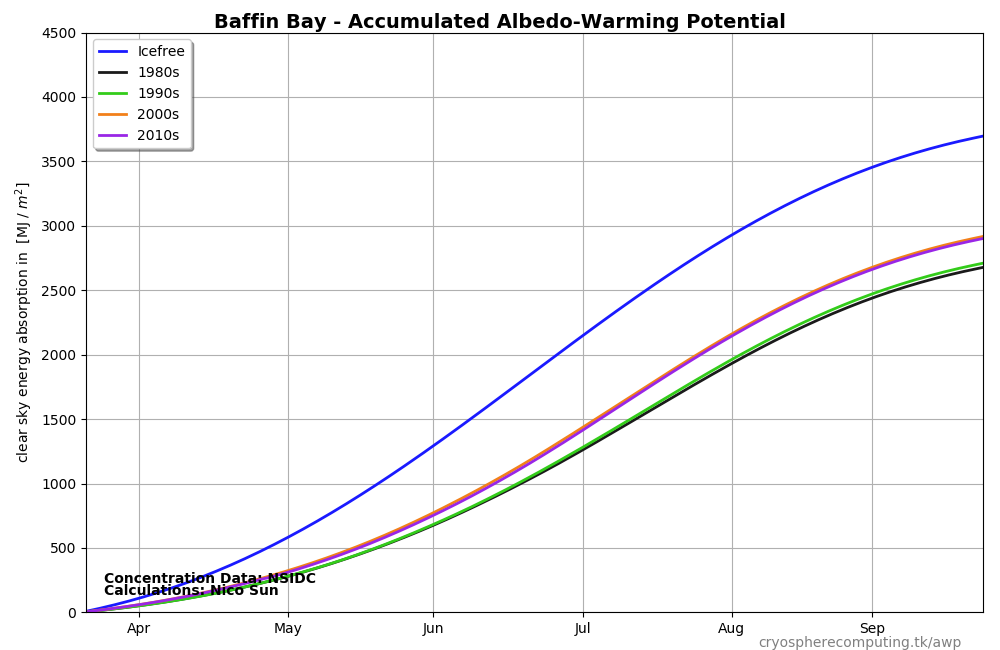
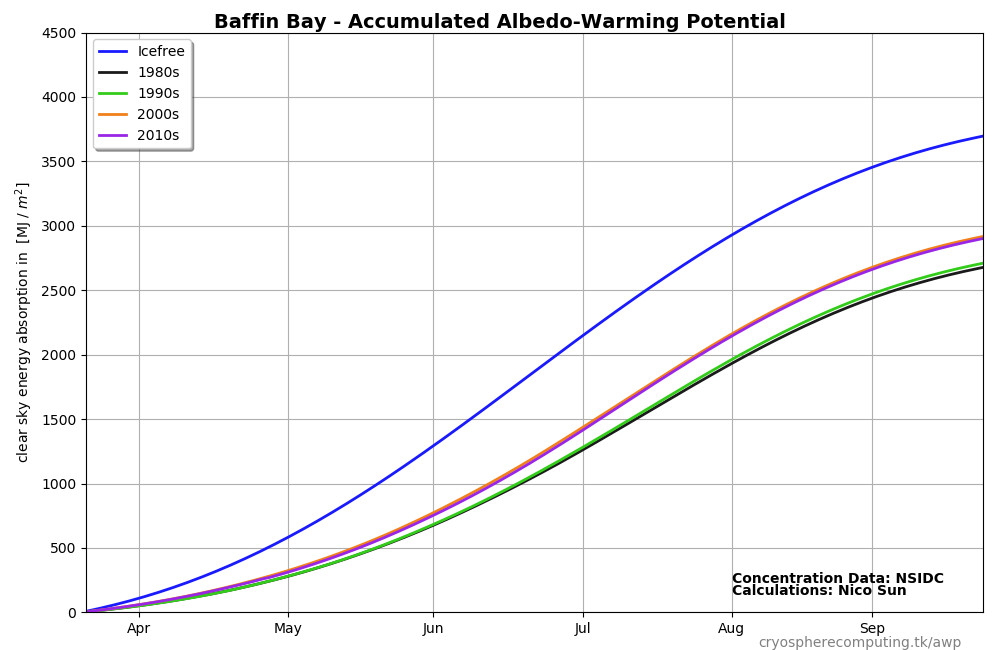
updated regional AWP
added Antarctica & graph design improvements

Changed region(s): [[0.093, 0.8615, 0.31, 0.9231], [0.713, 0.8615, 0.93, 0.9231]]

diff --git a/awp-south-region.html b/awp-south-region.html
@@ -88,18 +88,27 @@ body {font-family: "Lato", sans-serif}
     <!-- Sea Ice Area -->
   <div class="w3-container w3-content w3-center w3-padding-5" style="max-width:1900px" id="SIA">
     <h2 class="w3-wide">Antarctic</h2>
-    <p class="ex">coming soon</p>
     <div class="w3-row w3-padding-12">
       <div class="w3-half">
-
-
-
+        <img src="AWP_regional/South_Daily_AWP_Weddel Sea.png" class="w3-round" style="width:100%">
+        <img src="AWP_regional/South_Daily_AWP_Indian Ocean.png" class="w3-round" style="width:100%">
+        <img src="AWP_regional/South_Daily_AWP_Pacific Ocean.png" class="w3-round" style="width:100%">
+        <img src="AWP_regional/South_Daily_AWP_Ross Sea.png" class="w3-round" style="width:100%">
+        <img src="AWP_regional/South_Daily_AWP_Bell-Amun Sea.png" class="w3-round" style="width:100%">
       </div>
-            <div class="w3-half">
-
-
+        <div class="w3-half">
+        <img src="AWP_regional/South_Accu_AWP_Weddel Sea.png" class="w3-round" style="width:100%">
+        <img src="AWP_regional/South_Accu_AWP_Indian Ocean.png" class="w3-round" style="width:100%">
+        <img src="AWP_regional/South_Accu_AWP_Pacific Ocean.png" class="w3-round" style="width:100%">
+        <img src="AWP_regional/South_Accu_AWP_Ross Sea.png" class="w3-round" style="width:100%">
+        <img src="AWP_regional/South_Accu_AWP_Bell-Amun Sea.png" class="w3-round" style="width:100%">
       </div>
+      
+<div class="w3-row"></div>
 
+      <h2 class="w3-wide">Heatmap</h2>
+    <p class="ex">AWP in percent of Icefree conditions</p>
+    <img src="AWP_regional/South_Heatmap.png" class="w3-round">
 
   
   

diff --git a/awp-region.html b/awp-region.html
@@ -134,7 +134,11 @@ body {font-family: "Lato", sans-serif}
         <img src="AWP_regional/AWP_Accu_Central Arctic.png" class="w3-round" style="width:100%">
       </div>
 
-  
+<div class="w3-row"></div>
+
+      <h2 class="w3-wide">Heatmap</h2>
+    <p class="ex">AWP in percent of Icefree conditions</p>
+    <img src="AWP_regional/_AWP_Heatmap.png" class="w3-round">
   
 <!-- End Page Content -->
 </div>
